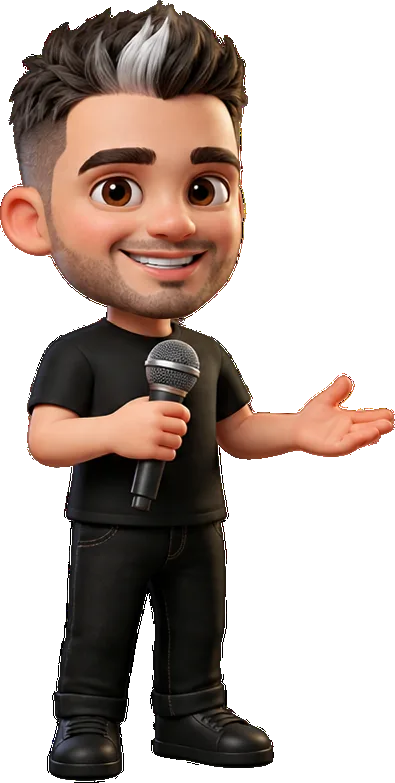
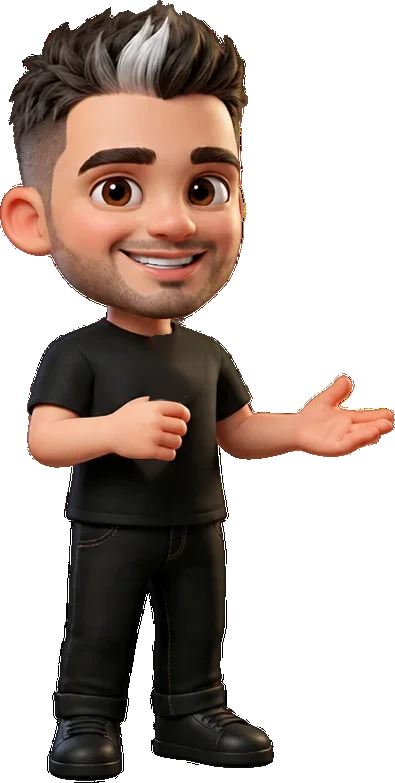
feat(3d): mini Facu sin micrófono y con movimiento (balanceo, respiración, gestos al hablar)
Claude-Session: https://claude.ai/code/session_015n5LzcQ3cf7XaJQbEFmf6n

Changed region(s): [[0.3646, 0.4291, 0.5165, 0.5211], [0.3342, 0.5824, 0.4253, 0.6743]]

diff --git a/3d/js/facu.js b/3d/js/facu.js
@@ -81,7 +81,7 @@ export function createFacu(ctx) {
   labels.append(tag);
   let jokeIdx = 0;
   let vx = 0, vy = 0, rolled = 0, idleT = 0;
-  let lean = 0, hopT = 0, cheer = false;
+  let lean = 0, hopT = 0, cheer = false, talkT = 0;
 
   // Hasta dónde puede avanzar el auto: no pasa barreras cerradas que estén delante del héroe
   function gateLimit(hx) {
@@ -114,10 +114,19 @@ export function createFacu(ctx) {
 
   function animateFacu(dt, moving) {
     idleT += dt;
+    talkT = Math.max(0, talkT - dt);
+    const talking = talkT > 0;
     let lift = moving ? Math.abs(Math.sin(rolled * 2.2)) * 0.05 : Math.sin(idleT * 3) * 0.015;
-    let tilt = lean;
+    // siempre se mece y respira; al hablar gesticula más y pega saltitos
+    let tilt = lean + Math.sin(idleT * 2.1) * 0.07;
+    let breath = Math.sin(idleT * 2.6) * 0.04;
+    if (talking) {
+      lift += Math.abs(Math.sin(idleT * 9)) * 0.12;
+      tilt += Math.sin(idleT * 8) * 0.1;
+      breath += Math.sin(idleT * 9) * 0.05;
+    }
     if (hopT > 0) {
-      // se para con el megáfono y se sacude de la risa
+      // se para a carcajadas y se sacude de la risa
       hopT = Math.max(0, hopT - dt);
       const k = 1 - hopT / 0.6;
       lift += Math.sin(k * Math.PI) * 0.5;
@@ -128,6 +137,7 @@ export function createFacu(ctx) {
     }
     actor.lift = lift;
     actor.lean = tilt;
+    actor.stretch = breath;
   }
 
   // ¿Hay cajones del pasaje sin romper adelante del auto?
@@ -143,7 +153,8 @@ export function createFacu(ctx) {
 
     // Facu habla por el canal único de mensajes (un cartel por vez, arriba al centro)
     say(text, seconds = 2.6) {
-      game.banner('🎤 FACU', text, seconds, { avatar: assets.url('facu') });
+      talkT = Math.max(talkT, seconds);
+      game.banner('😄 FACU', text, seconds, { avatar: assets.url('facu') });
     },
 
     update(dt) {
@@ -178,7 +189,7 @@ export function createFacu(ctx) {
       idleT += dt;
       car.userData.body.position.y = 0.6 + (Math.abs(vx) < 0.3 ? Math.sin(idleT * 30) * 0.008 : 0);
 
-      // Chiste con megáfono: aturde a los que rodean al héroe
+      // Chiste: aturde a los que rodean al héroe
       if (f.jokeCd <= 0) {
         const near = game.enemies.list.filter(e => e.hp > 0 && Math.hypot(e.pos.x - h.x, e.pos.z - h.z) < 4).length;
         if (near >= 2) {

diff --git a/3d/css/game.css b/3d/css/game.css
@@ -198,3 +198,10 @@ body.has-screen #level-card { display: none; }
 @media (prefers-reduced-motion: reduce) {
   #screen-menu *, #screen-menu .logo { animation: none !important; }
 }
+
+/* Facu siempre en movimiento: se mece y respira, y salta cuando habla */
+@keyframes facu-sway { 0%,100% { transform: rotate(-3deg) translateY(0) scale(1); } 50% { transform: rotate(3deg) translateY(-4px) scale(1.04); } }
+@keyframes facu-bob { 0%,100% { transform: translateY(0) scale(1, 1); } 50% { transform: translateY(-3px) scale(1.02, 0.98); } }
+.host img { animation: facu-sway 2.4s ease-in-out infinite; transform-origin: 50% 90%; }
+#banner.with-avatar img { animation: facu-bob 0.5s ease-in-out infinite; }
+@media (prefers-reduced-motion: reduce) { .host img, #banner.with-avatar img { animation: none; } }

diff --git a/3d/js/ui.js b/3d/js/ui.js
@@ -30,7 +30,7 @@ export function createUi({ ranking, assets, showScreen, onPlayAgain, onMenu, aud
   function showResult(result, heroId) {
     resultEl.replaceChildren();
     const host = el('div', { class: 'host' }, [
-      el('img', { src: assets.url('facu'), alt: 'Facu con el micrófono' }),
+      el('img', { src: assets.url('facu'), alt: 'Facu' }),
       el('div', { class: 'host-bubble', text: '¡Señoras y señores, puntaje final!' })
     ]);
     const title = el('h2', { text: result.won ? '¡MARGOT ESTÁ A SALVO!' : '¡Margot te sigue esperando!' });
